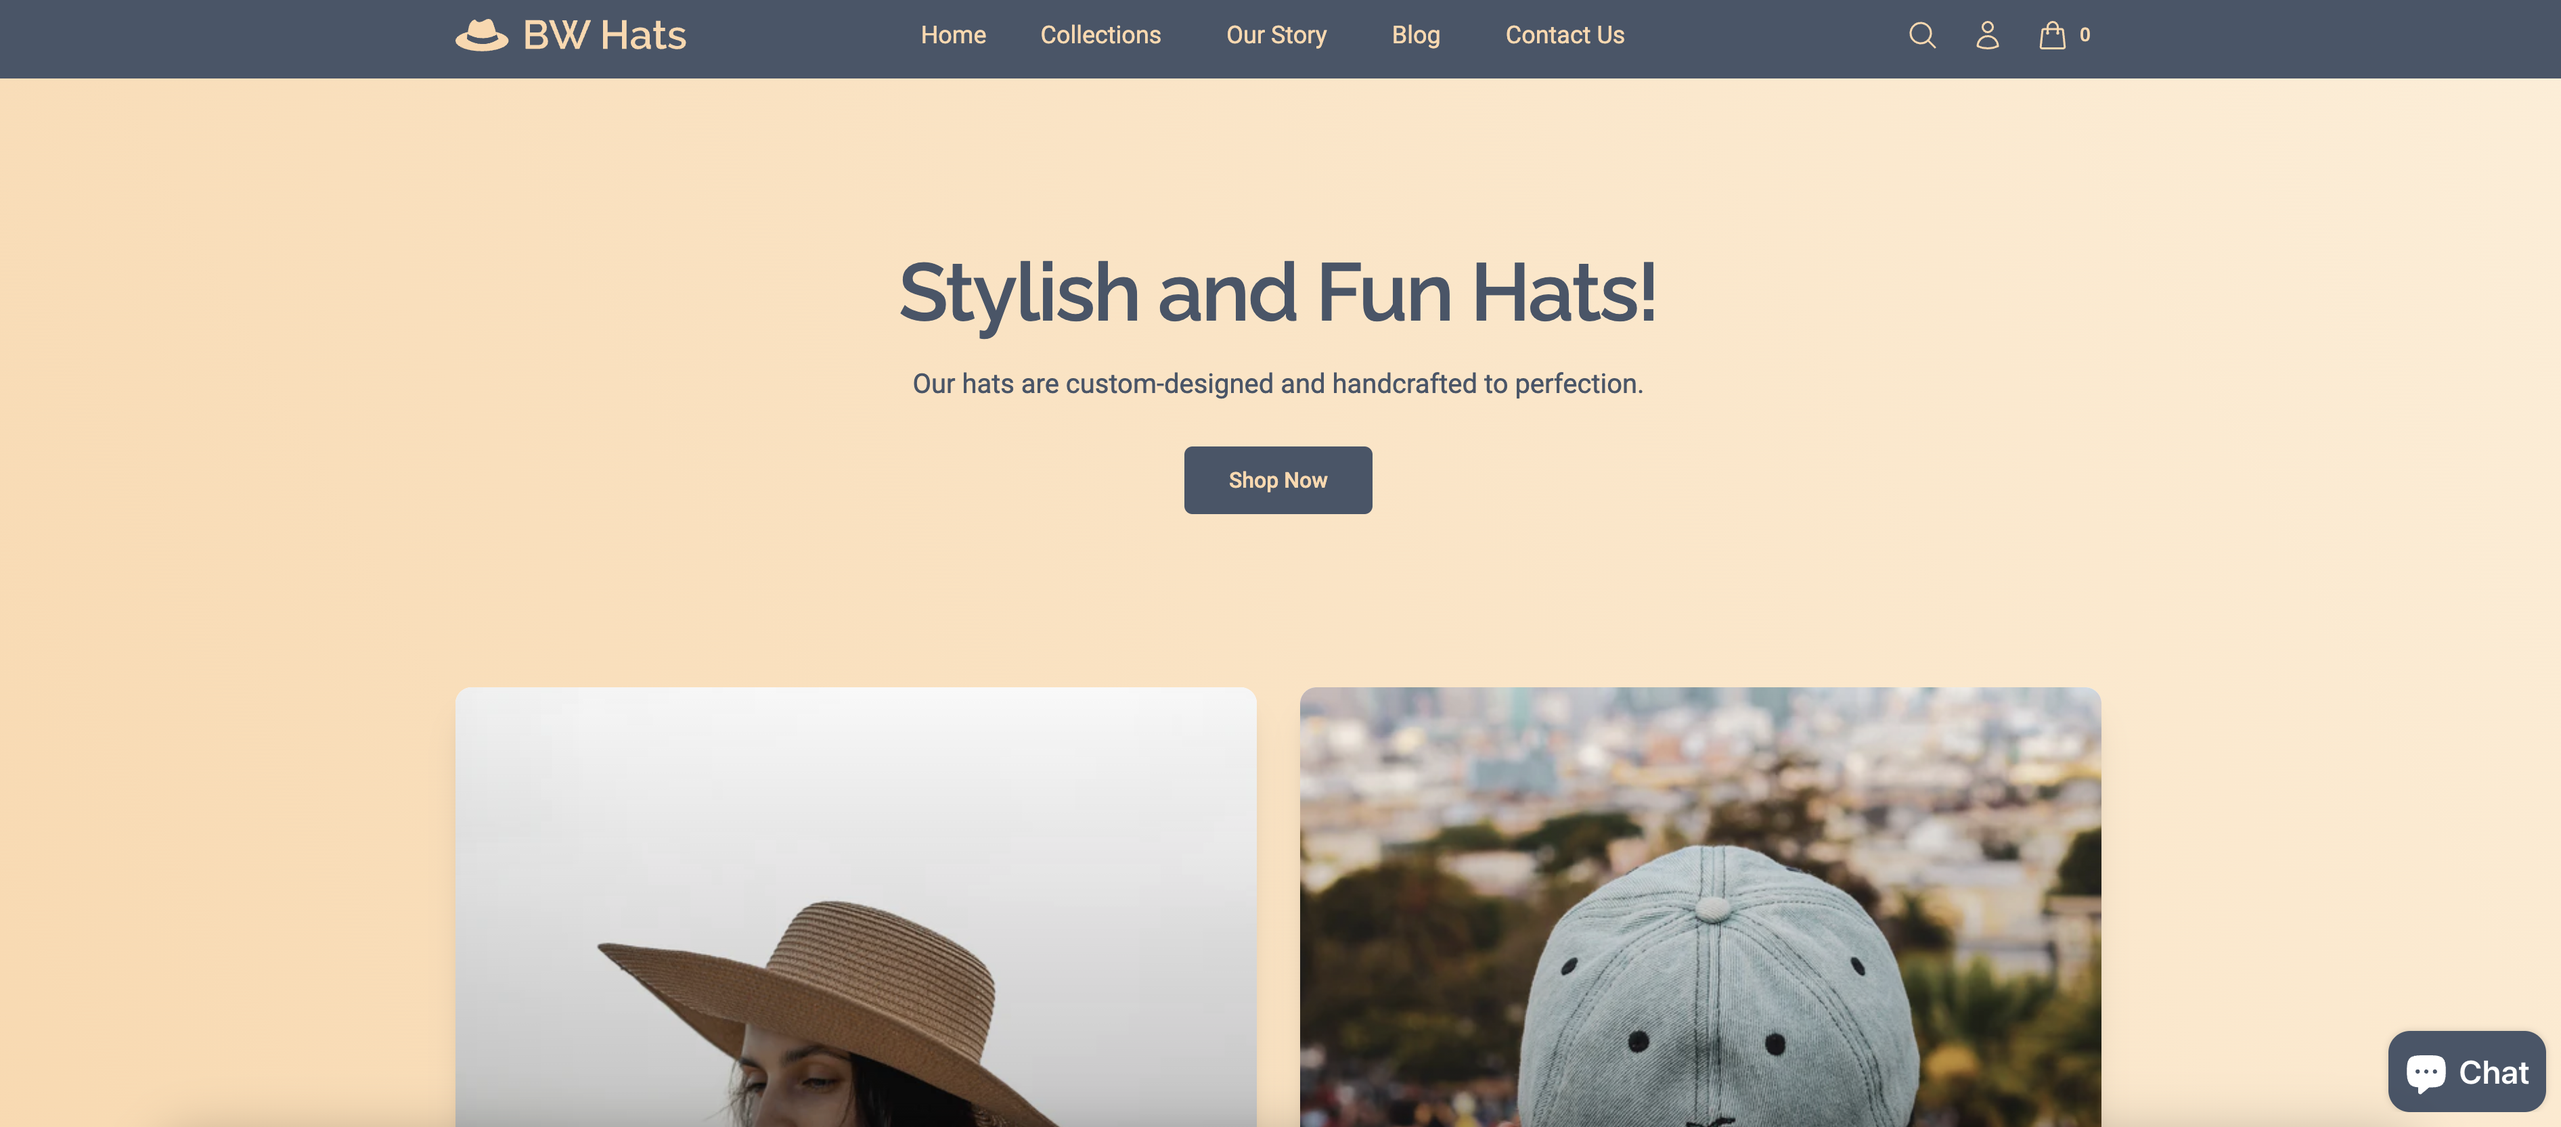
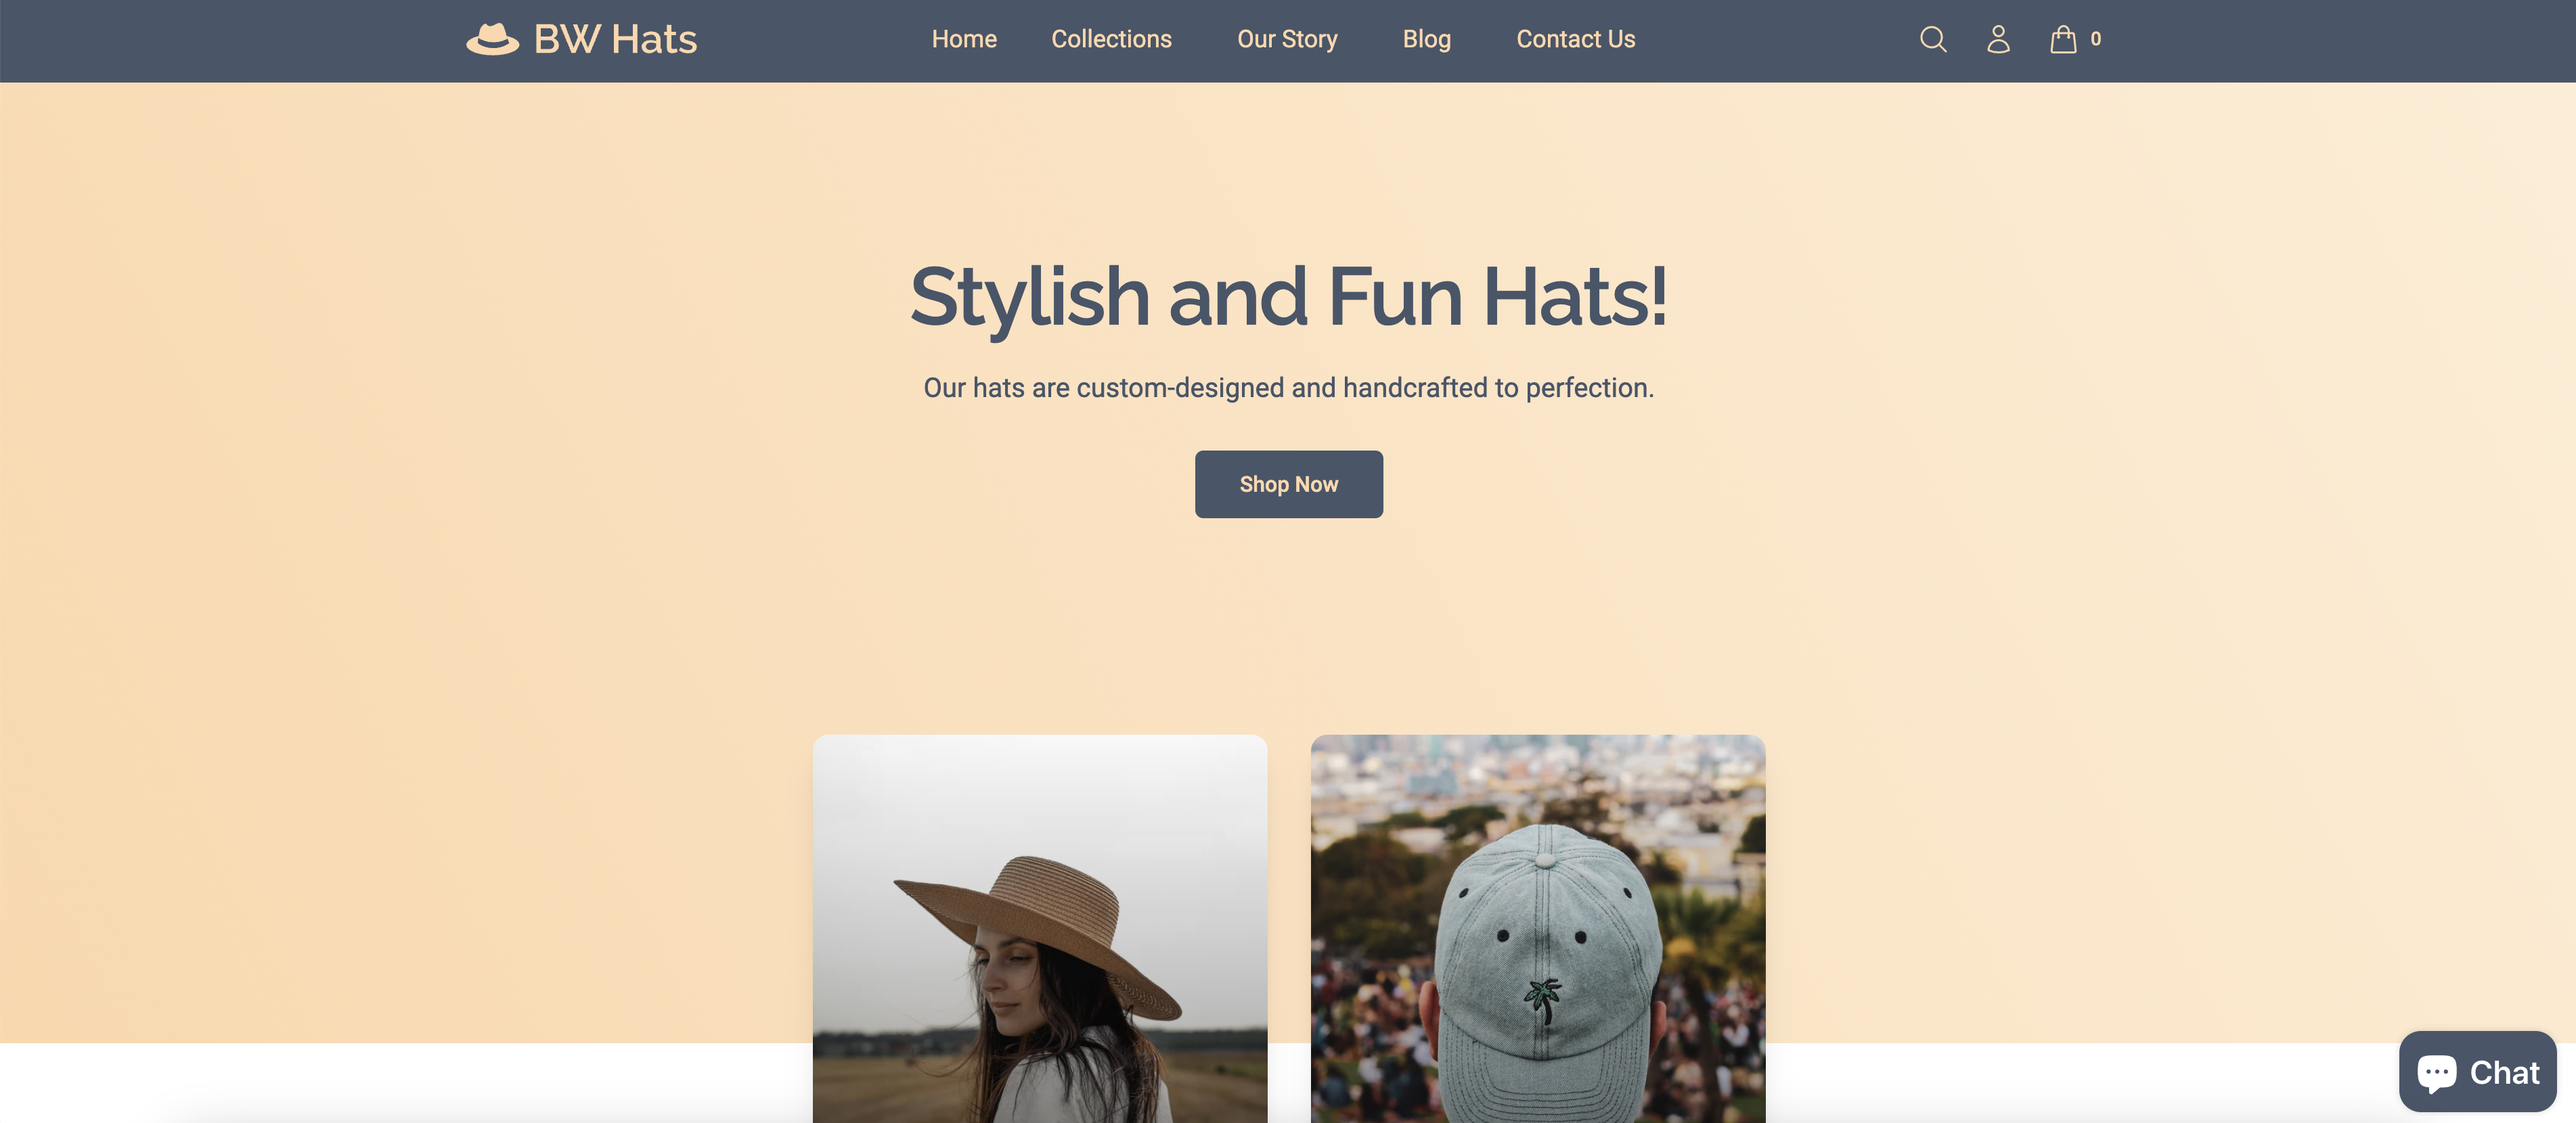
docs: update readme

diff --git a/assets/globals.css b/assets/globals.css
@@ -2069,14 +2069,6 @@ select {
   margin-top: 1px;
 }
 
-.-mt-48 {
-  margin-top: -12rem;
-}
-
-.mb-24 {
-  margin-bottom: 6rem;
-}
-
 .box-border {
   box-sizing: border-box;
 }
@@ -2253,10 +2245,6 @@ select {
 
 .h-full {
   height: 100%;
-}
-
-.h-40 {
-  height: 10rem;
 }
 
 .min-h-full {
@@ -4036,14 +4024,6 @@ select {
 
 .pt-8 {
   padding-top: 2rem;
-}
-
-.pb-48 {
-  padding-bottom: 12rem;
-}
-
-.pb-64 {
-  padding-bottom: 16rem;
 }
 
 .text-left {
@@ -6947,11 +6927,6 @@ select {
     margin-bottom: 2rem;
   }
 
-  .sm\:my-16 {
-    margin-top: 4rem;
-    margin-bottom: 4rem;
-  }
-
   .sm\:ml-4 {
     margin-left: 1rem;
   }
@@ -6978,14 +6953,6 @@ select {
 
   .sm\:mt-6 {
     margin-top: 1.5rem;
-  }
-
-  .sm\:mt-8 {
-    margin-top: 2rem;
-  }
-
-  .sm\:mb-8 {
-    margin-bottom: 2rem;
   }
 
   .sm\:block {
@@ -7052,8 +7019,8 @@ select {
     min-width: 0px;
   }
 
-  .sm\:max-w-7xl {
-    max-width: 80rem;
+  .sm\:max-w-2xl {
+    max-width: 42rem;
   }
 
   .sm\:max-w-md {
@@ -7062,22 +7029,6 @@ select {
 
   .sm\:max-w-sm {
     max-width: 24rem;
-  }
-
-  .sm\:max-w-4xl {
-    max-width: 56rem;
-  }
-
-  .sm\:max-w-5xl {
-    max-width: 64rem;
-  }
-
-  .sm\:max-w-3xl {
-    max-width: 48rem;
-  }
-
-  .sm\:max-w-2xl {
-    max-width: 42rem;
   }
 
   .sm\:flex-1 {
@@ -7275,14 +7226,6 @@ select {
     height: 10rem;
   }
 
-  .md\:h-48 {
-    height: 12rem;
-  }
-
-  .md\:h-56 {
-    height: 14rem;
-  }
-
   .md\:min-w-0 {
     min-width: 0px;
   }
@@ -7301,10 +7244,6 @@ select {
 
   .md\:grid-cols-4 {
     grid-template-columns: repeat(4, minmax(0, 1fr));
-  }
-
-  .md\:grid-cols-3 {
-    grid-template-columns: repeat(3, minmax(0, 1fr));
   }
 
   .md\:items-center {
@@ -7450,20 +7389,16 @@ select {
     height: 18rem;
   }
 
-  .lg\:h-24 {
-    height: 6rem;
-  }
-
-  .lg\:h-64 {
-    height: 16rem;
-  }
-
   .lg\:w-64 {
     width: 16rem;
   }
 
   .lg\:w-80 {
     width: 20rem;
+  }
+
+  .lg\:max-w-3xl {
+    max-width: 48rem;
   }
 
   .lg\:max-w-4xl {
@@ -7476,10 +7411,6 @@ select {
 
   .lg\:max-w-none {
     max-width: none;
-  }
-
-  .lg\:max-w-3xl {
-    max-width: 48rem;
   }
 
   .lg\:flex-1 {
@@ -7625,10 +7556,6 @@ select {
 
   .xl\:h-80 {
     height: 20rem;
-  }
-
-  .xl\:max-w-4xl {
-    max-width: 56rem;
   }
 
   .xl\:grid-cols-4 {

diff --git a/README.md b/README.md
@@ -11,7 +11,7 @@
 
 ## Description
 
-**BW Hats** is an e-commerce hat shop. It is a personal project that I created for my portfolio. It is not a real shop and uses fake products which I came up with using free images. However, I tried to make it as realistic as possible to accurately simulate how I would create a custom Shopify theme for a client.
+**BW Hats** is my demo store. It uses a custom Shopify theme that I created. I tried to make it as realistic as possible to accurately simulate how I would create a Shopify website for a client.
 
 ## Technologies
 
